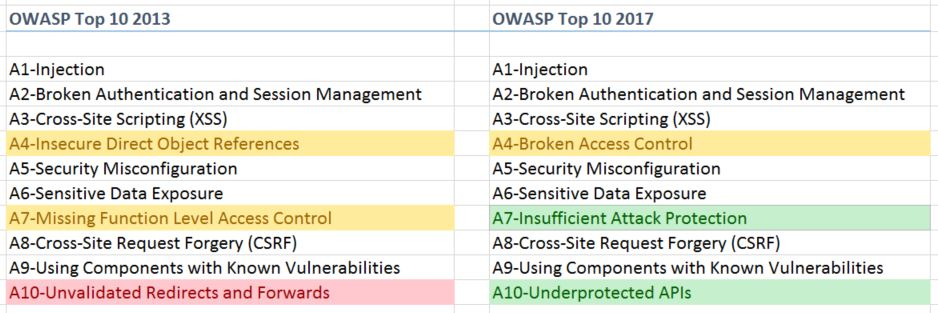
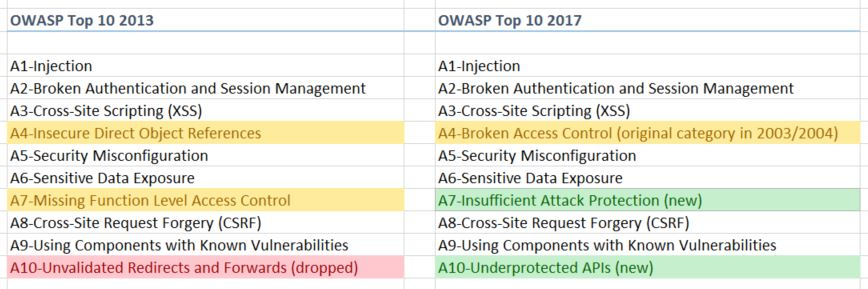
First final draft.

diff --git a/owasp-2017/PITCHME.md b/owasp-2017/PITCHME.md
@@ -5,10 +5,10 @@
 
 ## Content
 
-* **OWASP**: What it is. What it does.  
-* **Top 10, 2017**:  What it is based on. How they are prioritized.  
-* **diff 2017 2013**   
-* **2017 in-depth**
+* **OWASP generics**: What it is. What it does.
+* **How the list was built**
+* **What's new**: Top 10 2013 and 2017 compared.
+* **Novelties in depth**
 
 ---
 
@@ -80,4 +80,61 @@ Top **10** items are selected and prioritized according to:
 ## Diff 2017 - 2013
 
 ![diff](owasp-2017/assets/diff.JPG)
+
+---
+
+## In depth 1
+
+Merged 
+* 2013-A4: Insecure Direct Object References and
+* 2013-A7: Missing Function Level Access Control back into  
+2017-A4: Broken Access Control.
+
+Split in 2007, to bring more attention to each half of the access control problem (data and functionality). No longer considered that necessary.
+
++++
+
+## Novelties in depth
+
+Added 2017-A7: [Insufficient Attack Protection](https://www.owasp.org/index.php/Top_10_2017-A7-Insufficient_Attack_Protection)
+
+Because:
+* Data => the majority of applications and APIs lack basic capabilities to detect, prevent, and respond to both manual and
+automated attacks.  
+* Application and API owners also need to be able to deploy patches quickly to protect against attacks.
+
+Suggestions:
+* Apps should automatically detect and ban/logout/disable attackers;
+* Deploy patches quickly to block attacks.
+
+
++++
+
+## Novelties in depth
+
+Added 2017-A10: [Underprotected APIs](https://www.owasp.org/index.php/Top_10_2017-A10-Underprotected_APIs)
+
+Because:
+* "the use of APIs has exploded in modern software": e.g. SOAP/XML, REST/JSON, RPC, GWT, etc.
+* These APIs are often unprotected and contain numerous vulnerabilities.
+
+Additional info: [Reddit debate](https://www.reddit.com/r/netsec/comments/64pou3/owasp_top_10_2017_release/) on this risk.
+
+
++++ 
+
+## Novelties in depth
+
+Removed 2013-A10: [Unvalidated Redirects and Forwards](https://www.owasp.org/index.php/Top_10_2013-A10-Unvalidated_Redirects_and_Forwards)
+
+Because:
+* Added in 2010 to raise awareness of this problem;
+* Data shows that this issue isn’t as prevalent as expected.
+
+---
+
+## Instead of conclusion
+
+![risks](owasp-2017/assets/risks.JPG)
+
 
